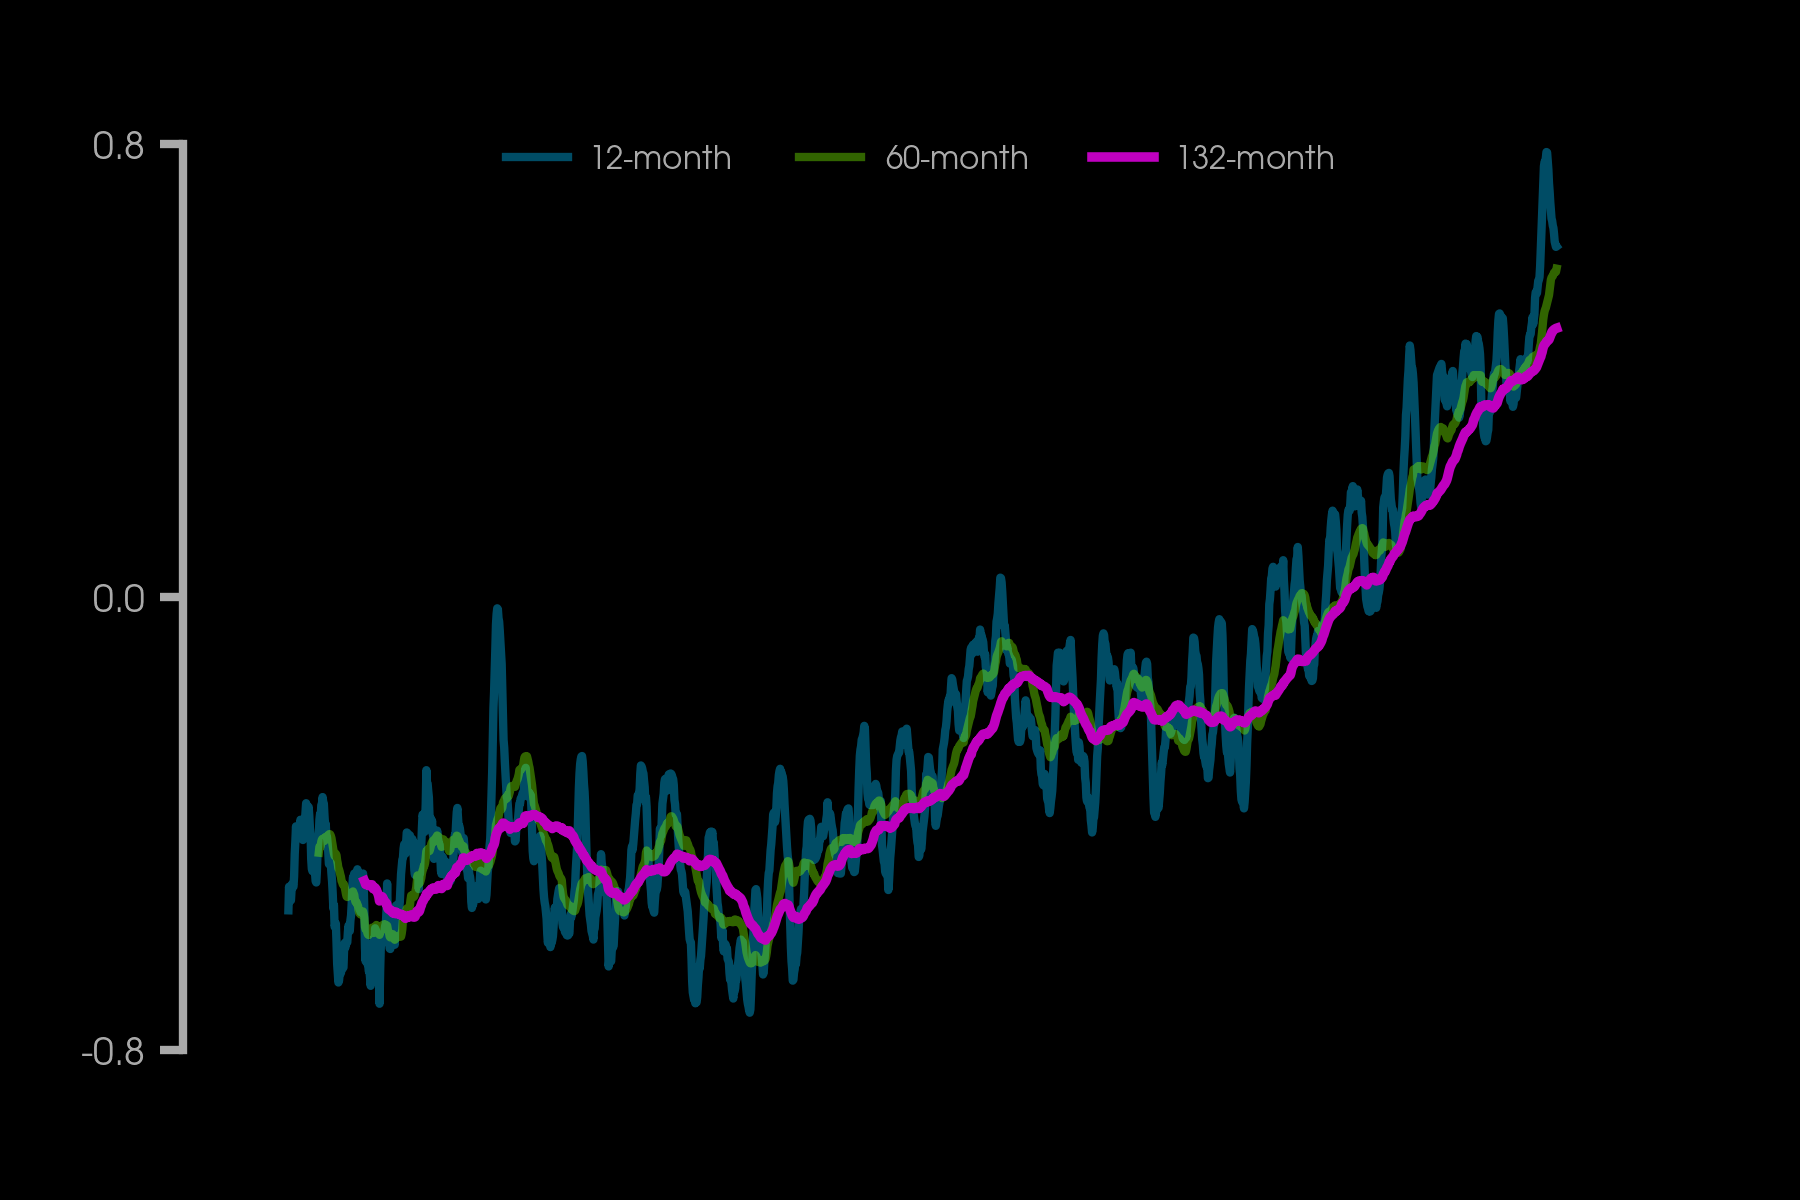
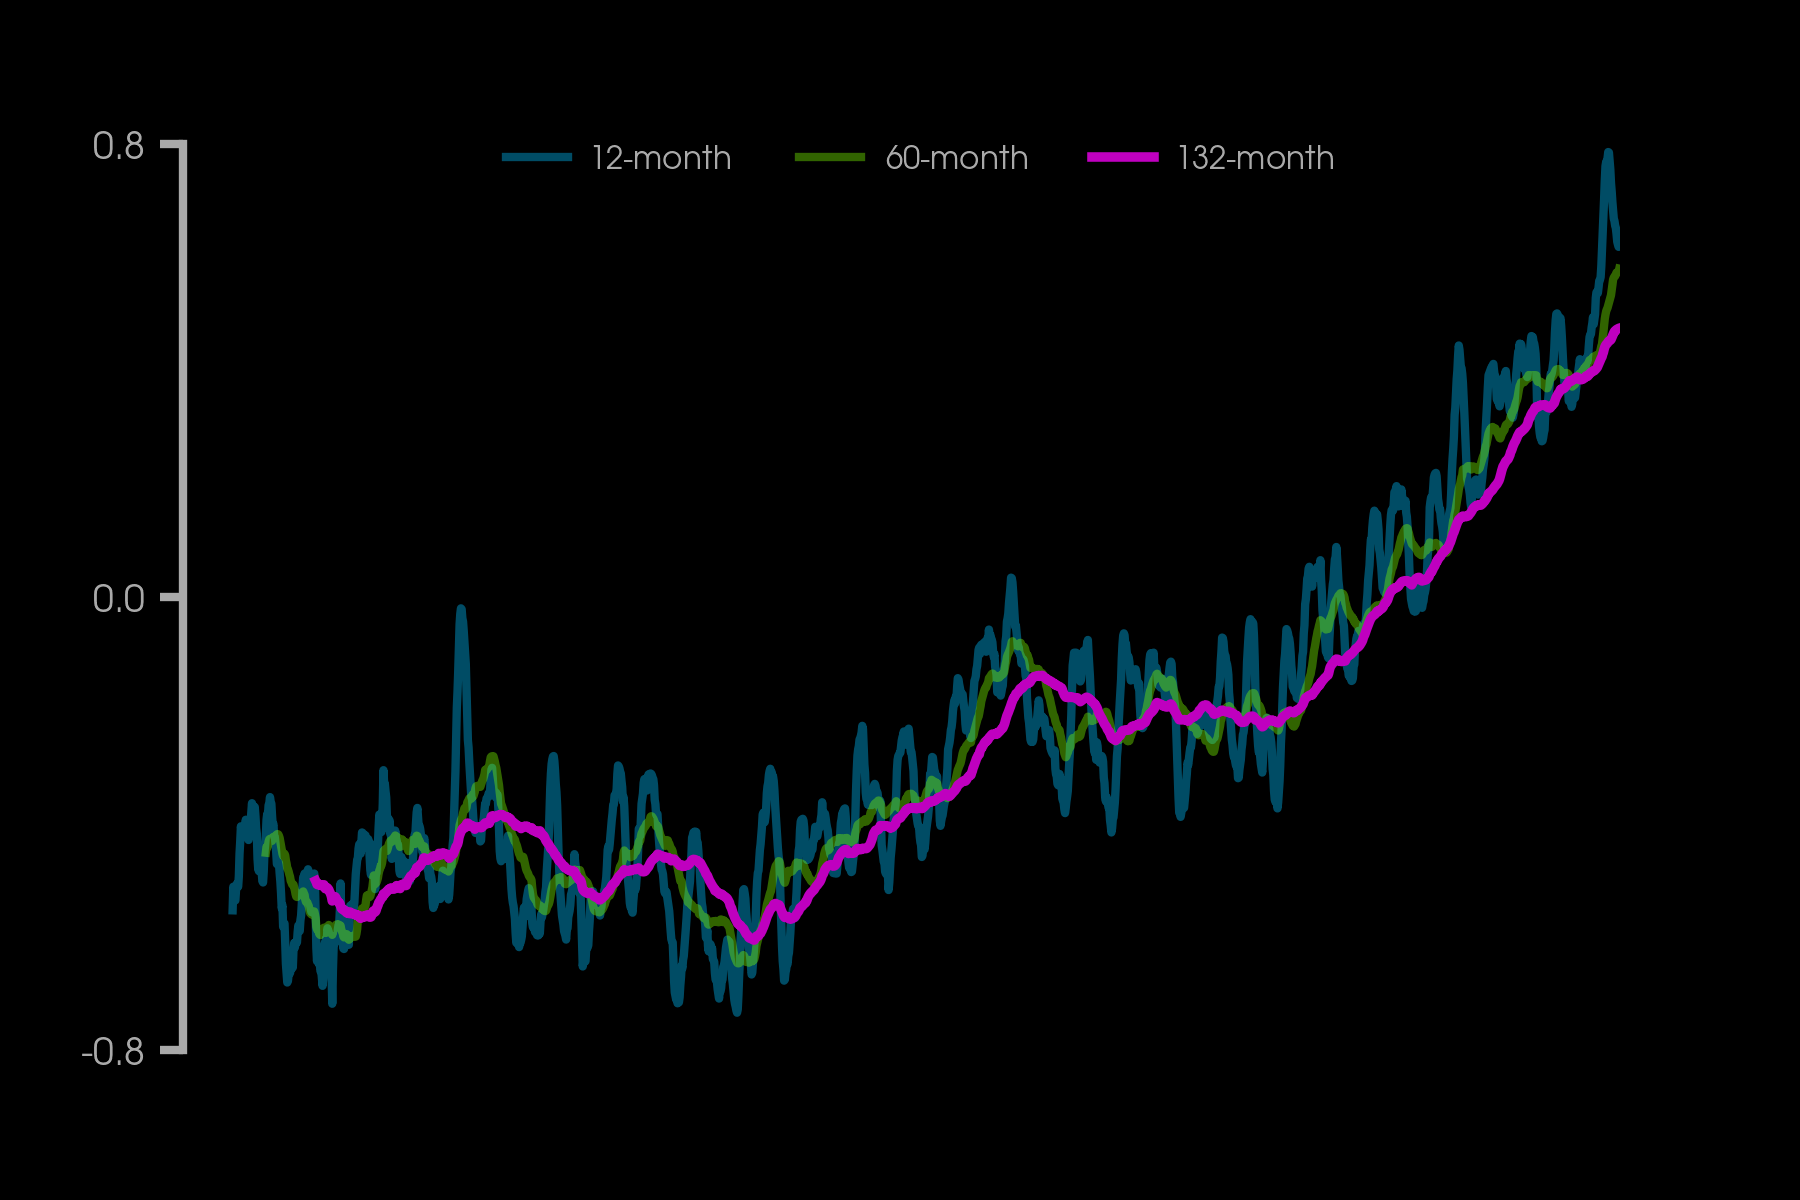
Presentation figures

Changed region(s): [[0.1244, 0.1233, 0.9022, 0.8633]]

diff --git a/Scripts/plot_globaltemps.py b/Scripts/plot_globaltemps.py
@@ -91,10 +91,10 @@ if filesave3 == True:
 ###############################################################################    
 ### Plot figure
 matplotlib.rc('savefig', facecolor='black')
-matplotlib.rc('axes', edgecolor='white')
-matplotlib.rc('xtick', color='white')
-matplotlib.rc('ytick', color='white')
-matplotlib.rc('axes', labelcolor='white')
+matplotlib.rc('axes', edgecolor='darkgrey')
+matplotlib.rc('xtick', color='darkgrey')
+matplotlib.rc('ytick', color='darkgrey')
+matplotlib.rc('axes', labelcolor='darkgrey')
 matplotlib.rc('axes', facecolor='black')
 plt.rc('text',usetex=True)
 plt.rc('font',**{'family':'sans-serif','sans-serif':['Avant Garde']})
@@ -126,7 +126,7 @@ ax.spines['bottom'].set_linewidth(2)
 ax.spines['left'].set_linewidth(2)
 ax.tick_params('both',length=5.5,width=2,which='major',direction='out')
 
-plt.axhline(y=0,color='darkgrey',linestyle='--',linewidth=2.2)
+plt.axhline(y=0,color='darkgrey',linestyle=':',dashes=(1,0.3),linewidth=2)
 
 color=iter(cmocean.cm.thermal(np.linspace(0.15,1,len(data))))
 for i in range(data.shape[0]):

diff --git a/Scripts/plot_meanGlobalTemp_movingAverage.py b/Scripts/plot_meanGlobalTemp_movingAverage.py
@@ -130,6 +130,7 @@ plt.plot(months,ave132,color='m',linewidth=2.3,
 
 plt.yticks(np.arange(-0.8,0.81,0.8),np.arange(-0.8,0.81,0.8),rotation=0,fontsize=9)
 plt.ylim([-0.8,0.8])
+plt.xlim([0,2016])
 
 l = plt.legend(shadow=False,fontsize=7.5,loc='upper center',
            bbox_to_anchor=(0.5, 1.03),fancybox=True,ncol=5,
